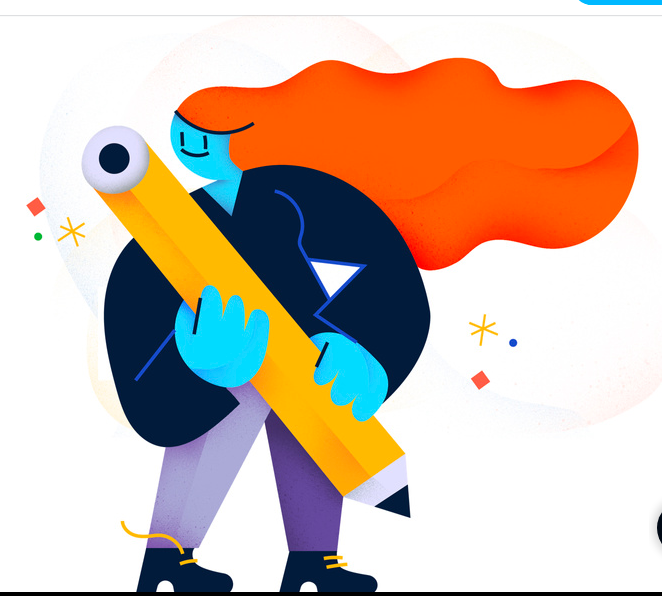
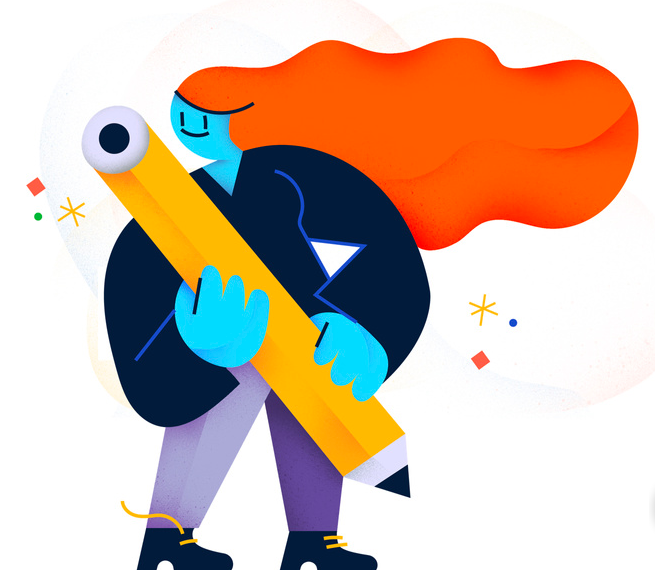
partie contact fini

diff --git a/contact.html b/contact.html
@@ -25,7 +25,13 @@ https://templatemo.com/tm-538-digital-trend
 <link rel="stylesheet" href="css/foot.css">
      <!-- MAIN CSS -->
      <link rel="stylesheet" href="css/templatemo-digital-trend.css">
-
+<style>
+  .contatinfo{
+        display: flex;
+        flex-wrap: wrap;
+        margin-top: 128px;
+  }
+</style>
 </head>
 <body>
 
@@ -56,7 +62,7 @@ https://templatemo.com/tm-538-digital-trend
               <a href="blog-detail.html" class="nav-link">Certificats</a>
             </li>
             <li class="nav-item">
-              <a href="#Contact" class="nav-link contact">Contact</a>
+              <a href="contact.html" class="nav-link contact">Contact</a>
             </li>
           </ul>
         </div>
@@ -67,43 +73,22 @@ https://templatemo.com/tm-538-digital-trend
 
      <!-- CONTACT -->
      <section class="contact section-padding">
-          <div class="container">
+          <div class="container" style="display: flex;">
                <div class="row">
 
-                    <div class="col-lg-6 mx-auto col-md-7 col-12 py-5 mt-5 text-center" data-aos="fade-up">
+                    <div class="contatinfo" data-aos="fade-up">
 
-                      <h1 class="mb-4">Hey there, Let's <strong>talk</strong> about <strong>creative</strong> projects</h1>
+                      <h1 class="">Bienvenu <strong>Ici</strong> Vous <strong>Trouverez</strong> Comment me contacter</h1>
 
-                      <p>or email us at <a href="mailto:hello@company.com">hello@company.com</a></p>
-                      <p>Please follow our <a rel="nofollow" href="https://templatemo.com/contact">contact page</a> to <strong>setup</strong> the contact form.</p>
+                      <p>Par email  <a href="mailto:bensalah.meriem0@gmail.com"><strong>bensalah.meriem0@gmail.com/<strong></a></p>
+                      <p>Ou Par Messagerie Linkedin <a rel="nofollow" href="https://www.linkedin.com/in/meriam-ben-salah-a921a7119/"><strong>Lien</strong></a> vers <a rel="nofollow" href="https://www.linkedin.com/in/meriam-ben-salah-a921a7119/"><strong>mon Compte</strong></a>Linkedin</p>
                     </div>
 
-                    <div class="col-lg-8 mx-auto col-md-10 col-12">
-                    
-                    <!-- Follow https://templatemo.com/contact page to setup your own contact form -->
-                    
-                      <form action="#" method="post" class="contact-form" data-aos="fade-up" data-aos-delay="300" role="form">
-                        <div class="row">
-                          <div class="col-lg-6 col-12">
-                            <input type="text" class="form-control" name="name" placeholder="Name">
-                          </div>
+                   
 
-                          <div class="col-lg-6 col-12">
-                            <input type="email" class="form-control" name="email" placeholder="Email">
-                          </div>
-
-                          <div class="col-lg-12 col-12">
-                            <textarea class="form-control" rows="6" name="message" placeholder="Message"></textarea>
-                          </div>
-
-                          <div class="col-lg-5 mx-auto col-7">
-                            <button type="submit" class="form-control" id="submit-button" name="submit">Send Message</button>
-                          </div>
-                        </div>
-
-                      </form>
-                    </div>
-
+               </div>
+               <div>
+                 <img src="./images/contactimg.png" style="height: 433px;"> 
                </div>
           </div>
      </section>
@@ -114,9 +99,9 @@ https://templatemo.com/tm-538-digital-trend
 	3. Click "Share" and choose "Embed map" tab
 	4. Copy only URL and paste it within the src="" field below
 -->
-     <div class="google-map" data-aos="zoom-in">
+     <!-- <div class="google-map" data-aos="zoom-in">
        <iframe src="https://www.google.com/maps/embed?pb=!1m18!1m12!1m3!1d11196.961132529668!2d-43.38581128725845!3d-23.011063013218724!2m3!1f0!2f0!3f0!3m2!1i1024!2i768!4f13.1!3m3!1m2!1s0x9bdb695cd967b7%3A0x171cdd035a6a9d84!2sAv.%20L%C3%BAcio%20Costa%20-%20Barra%20da%20Tijuca%2C%20Rio%20de%20Janeiro%20-%20RJ%2C%20Brazil!5e0!3m2!1sen!2sth!4v1568649412152!5m2!1sen!2sth" width="1920" height="600" frameborder="0" style="border:0;" allowfullscreen=""></iframe>
-     </div>
+     </div> -->
 
 <footer class="site-footer">
   <div class="container">
